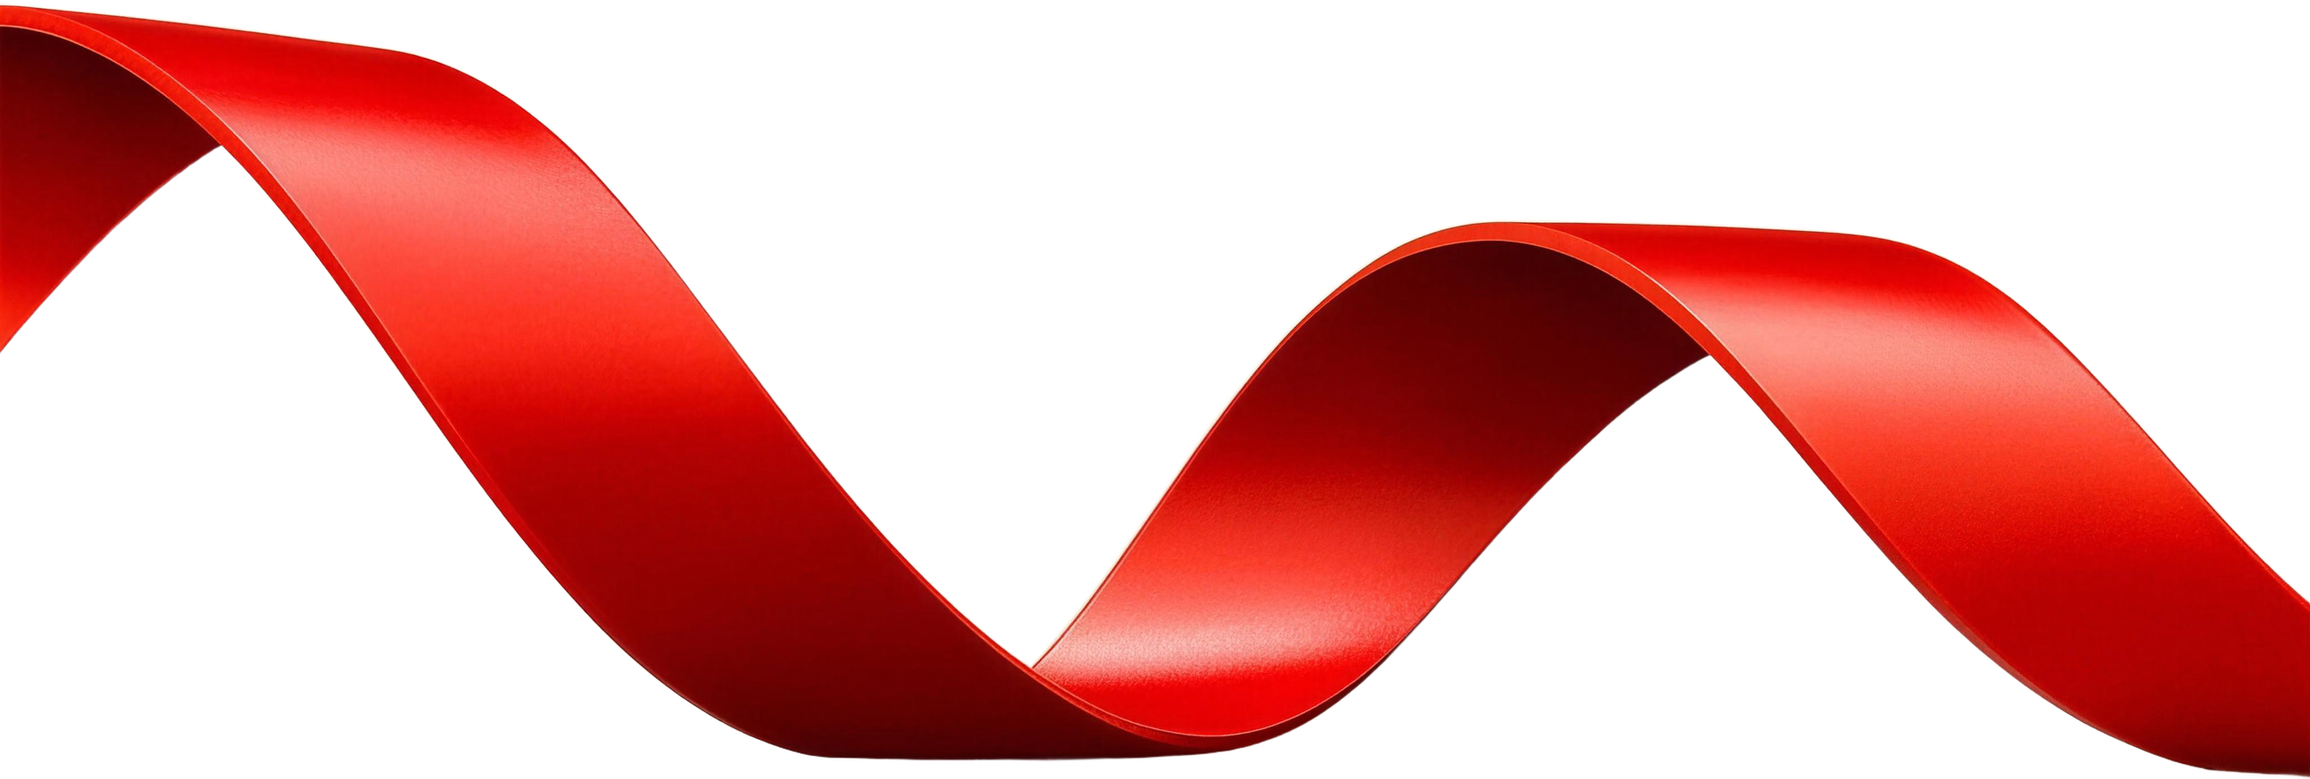
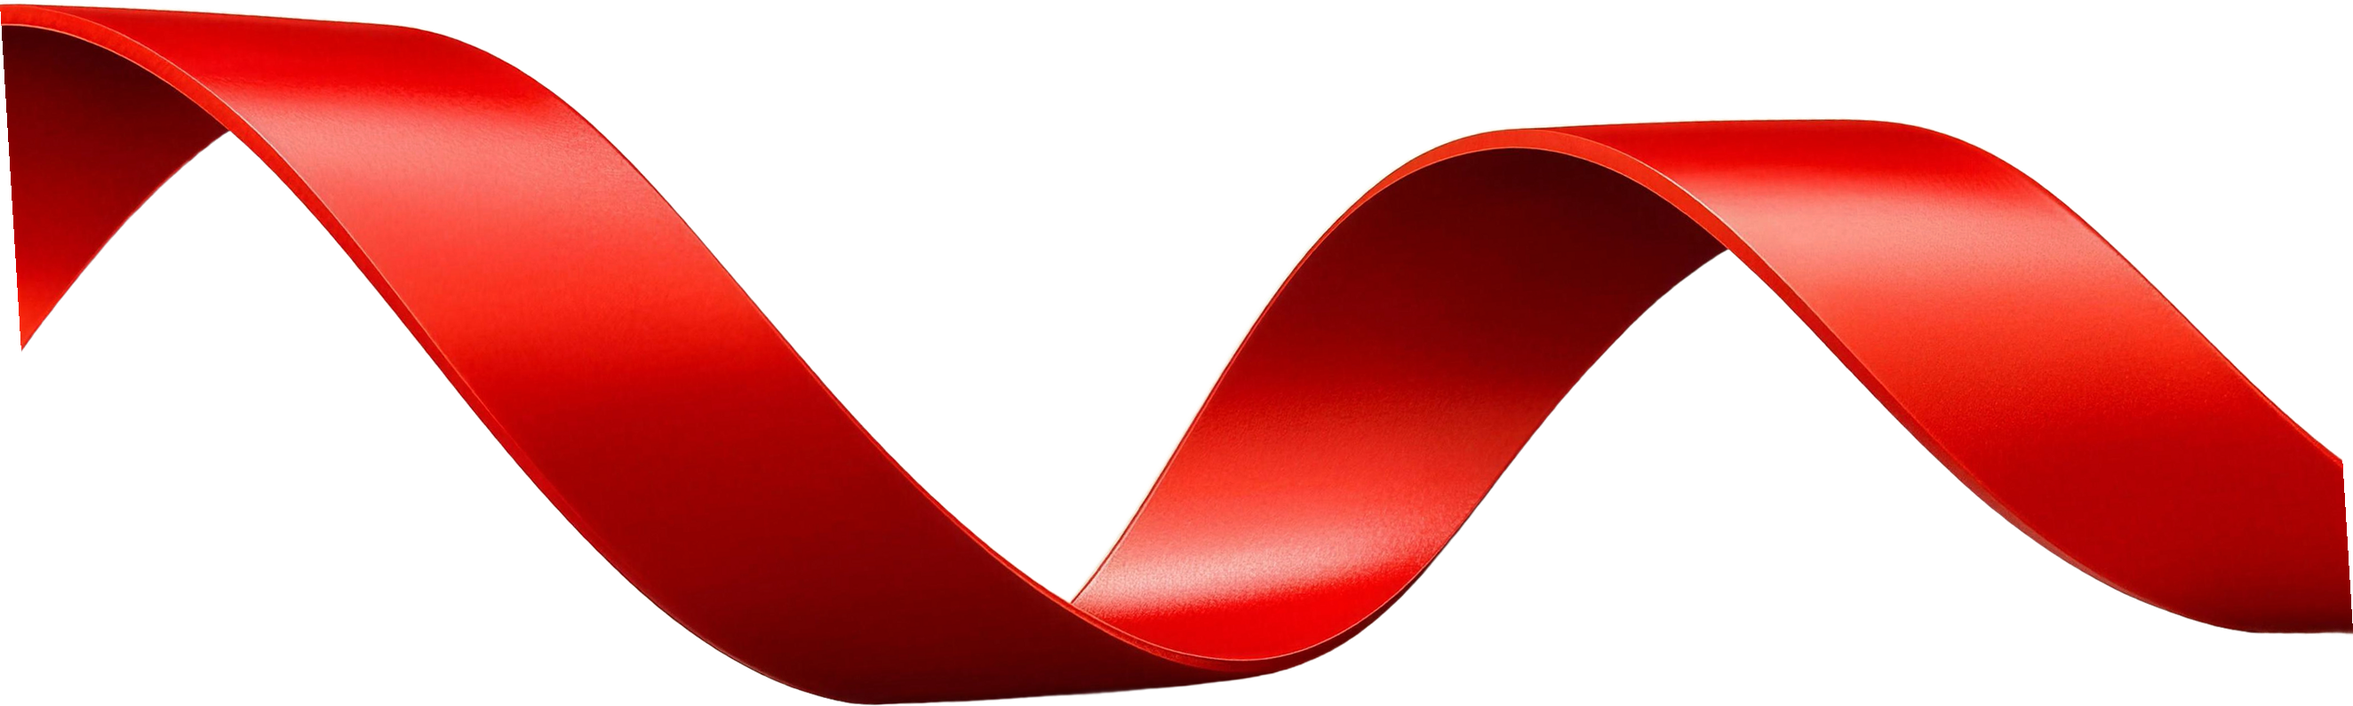
feat(customer-web): ribbon v10: sloped flow baked into the bands (enter high, exit low, never level), spatial rotation motion (perspective rotateX + roll while drifting), peeks relocated far from seams (Pricing + footer) and shrunk

diff --git a/apps/customer-web/components/landing/RibbonBand.tsx b/apps/customer-web/components/landing/RibbonBand.tsx
@@ -5,32 +5,32 @@ import { useRef } from 'react'
 import { useScrollLinked } from './scroll'
 
 /**
- * The section-seam ribbon, brand form v9 (owner 2026-07-08): purpose-rendered
- * high-resolution bands generated from the brand concept sheets
- * (docs/design/customer-web-prelaunch/brand-ribbon/) so they are crisp at
- * wide viewports: thick matte red voucher band, visible edge thickness, real
- * flowing waves, never a straight strip. The seam follows the band: its true
- * top and bottom edges were sampled from each PNG's alpha and baked in as
- * fill paths, so topColor meets bottomColor exactly along the ribbon.
+ * The section-seam ribbon, brand form v10 (owner 2026-07-08): hi-res bands
+ * rendered from the brand concept sheets, with the FLOW TILTED into the
+ * asset: the band enters one side high and leaves the other side low, never
+ * a level line. Motion is spatial, not a slide: the whole band turns gently
+ * in perspective (rotateX + a touch of roll) while drifting, so it reads as
+ * a ribbon rotating through the break. The seam still follows the band:
+ * its true edges are baked as fill paths sharing the band's transform.
  * Decorative only.
  */
 
 const VARIANTS = {
-  // Rhythmic corkscrew wave
+  // Rhythmic corkscrew wave, descending left to right
   a: {
     src: '/ribbon/flow-a.png',
-    w: 2600,
-    h: 495,
-    top: 'M -140 -140 L -140 324 L 0 324 L 16 303 L 33 281 L 49 260 L 65 239 L 82 218 L 98 198 L 114 178 L 131 158 L 147 140 L 163 122 L 180 105 L 196 90 L 212 77 L 229 63 L 245 52 L 262 42 L 278 33 L 294 26 L 311 21 L 327 17 L 343 16 L 360 15 L 376 15 L 392 15 L 409 15 L 425 15 L 441 15 L 458 14 L 474 14 L 490 14 L 507 13 L 523 13 L 539 13 L 556 13 L 572 13 L 588 13 L 605 14 L 621 17 L 637 22 L 654 29 L 670 37 L 687 48 L 703 60 L 719 74 L 736 90 L 752 108 L 768 126 L 785 147 L 801 167 L 817 188 L 834 211 L 850 233 L 866 255 L 883 278 L 899 299 L 915 320 L 932 341 L 948 361 L 964 379 L 981 396 L 997 411 L 1013 424 L 1030 436 L 1046 445 L 1062 435 L 1079 423 L 1095 409 L 1112 394 L 1128 378 L 1144 361 L 1161 341 L 1177 322 L 1193 302 L 1210 281 L 1226 260 L 1242 240 L 1259 218 L 1275 197 L 1291 176 L 1308 154 L 1324 135 L 1340 116 L 1357 97 L 1373 80 L 1389 65 L 1406 50 L 1422 39 L 1438 28 L 1455 20 L 1471 14 L 1487 11 L 1504 10 L 1520 10 L 1537 10 L 1553 10 L 1569 10 L 1586 10 L 1602 10 L 1618 9 L 1635 9 L 1651 9 L 1667 8 L 1684 8 L 1700 8 L 1716 7 L 1733 8 L 1749 12 L 1765 18 L 1782 28 L 1798 39 L 1814 53 L 1831 70 L 1847 90 L 1863 111 L 1880 134 L 1896 158 L 1912 182 L 1929 208 L 1945 232 L 1962 256 L 1978 278 L 1994 300 L 2011 321 L 2027 341 L 2043 359 L 2060 378 L 2076 393 L 2092 408 L 2109 421 L 2125 432 L 2141 441 L 2158 442 L 2174 432 L 2190 422 L 2207 409 L 2223 396 L 2239 382 L 2256 366 L 2272 350 L 2288 333 L 2305 314 L 2321 295 L 2337 275 L 2354 254 L 2370 234 L 2387 212 L 2403 191 L 2419 169 L 2436 148 L 2452 127 L 2468 108 L 2485 88 L 2501 70 L 2517 53 L 2534 38 L 2550 26 L 2566 17 L 2583 12 L 2599 9 L 2740 9 L 2740 -140 Z',
-    bottom: 'M -140 635 L -140 486 L 0 486 L 16 486 L 33 486 L 49 485 L 65 483 L 82 479 L 98 474 L 114 465 L 131 454 L 147 441 L 163 427 L 180 410 L 196 393 L 212 374 L 229 354 L 245 333 L 262 311 L 278 290 L 294 268 L 311 245 L 327 224 L 343 199 L 360 179 L 376 159 L 392 141 L 409 122 L 425 105 L 441 89 L 458 73 L 474 61 L 490 72 L 507 86 L 523 100 L 539 116 L 556 134 L 572 151 L 588 170 L 605 190 L 621 209 L 637 230 L 654 252 L 670 273 L 687 295 L 703 315 L 719 335 L 736 356 L 752 375 L 768 393 L 785 411 L 801 426 L 817 439 L 834 451 L 850 461 L 866 468 L 883 475 L 899 479 L 915 482 L 932 483 L 948 484 L 964 482 L 981 481 L 997 480 L 1013 479 L 1030 479 L 1046 478 L 1062 478 L 1079 478 L 1095 477 L 1112 477 L 1128 477 L 1144 477 L 1161 477 L 1177 476 L 1193 475 L 1210 473 L 1226 470 L 1242 464 L 1259 457 L 1275 449 L 1291 439 L 1308 428 L 1324 416 L 1340 402 L 1357 387 L 1373 371 L 1389 354 L 1406 335 L 1422 316 L 1438 297 L 1455 276 L 1471 255 L 1487 234 L 1504 211 L 1520 190 L 1537 167 L 1553 146 L 1569 125 L 1586 104 L 1602 86 L 1618 80 L 1635 100 L 1651 118 L 1667 139 L 1684 161 L 1700 183 L 1716 205 L 1733 228 L 1749 250 L 1765 272 L 1782 294 L 1798 315 L 1814 336 L 1831 357 L 1847 375 L 1863 392 L 1880 408 L 1896 422 L 1912 434 L 1929 445 L 1945 455 L 1962 463 L 1978 469 L 1994 474 L 2011 477 L 2027 479 L 2043 480 L 2060 481 L 2076 479 L 2092 479 L 2109 477 L 2125 477 L 2141 476 L 2158 476 L 2174 475 L 2190 475 L 2207 475 L 2223 474 L 2239 473 L 2256 473 L 2272 472 L 2288 472 L 2305 470 L 2321 468 L 2337 464 L 2354 458 L 2370 451 L 2387 443 L 2403 435 L 2419 425 L 2436 414 L 2452 402 L 2468 389 L 2485 374 L 2501 359 L 2517 342 L 2534 324 L 2550 305 L 2566 286 L 2583 265 L 2599 245 L 2740 245 L 2740 635 Z',
+    w: 2630,
+    h: 623,
+    top: 'M -140 -140 L -140 453 L 0 453 L 17 284 L 33 266 L 50 247 L 66 229 L 83 210 L 99 193 L 116 175 L 132 158 L 149 141 L 165 125 L 182 109 L 198 94 L 215 80 L 231 68 L 248 55 L 265 44 L 281 35 L 298 26 L 314 20 L 331 14 L 347 10 L 364 8 L 380 7 L 397 8 L 413 9 L 430 10 L 446 12 L 463 13 L 480 14 L 496 15 L 513 16 L 529 17 L 546 18 L 562 19 L 579 20 L 595 21 L 612 22 L 628 24 L 645 27 L 661 32 L 678 40 L 694 48 L 711 60 L 728 74 L 744 89 L 761 108 L 777 127 L 794 150 L 810 173 L 827 199 L 843 223 L 860 252 L 876 277 L 893 305 L 909 330 L 926 356 L 942 379 L 959 403 L 976 425 L 992 444 L 1009 461 L 1025 475 L 1042 488 L 1058 486 L 1075 475 L 1091 464 L 1108 451 L 1124 438 L 1141 423 L 1157 408 L 1174 391 L 1190 375 L 1207 357 L 1224 339 L 1240 321 L 1257 303 L 1273 285 L 1290 266 L 1306 249 L 1323 230 L 1339 213 L 1356 195 L 1372 179 L 1389 164 L 1405 149 L 1422 136 L 1439 124 L 1455 114 L 1472 105 L 1488 99 L 1505 94 L 1521 93 L 1538 93 L 1554 94 L 1571 95 L 1587 97 L 1604 98 L 1620 99 L 1637 100 L 1653 101 L 1670 102 L 1687 103 L 1703 104 L 1720 105 L 1736 106 L 1753 107 L 1769 110 L 1786 116 L 1802 125 L 1819 137 L 1835 151 L 1852 170 L 1868 192 L 1885 217 L 1901 243 L 1918 273 L 1935 304 L 1951 333 L 1968 363 L 1984 389 L 2001 417 L 2017 441 L 2034 465 L 2050 486 L 2067 508 L 2083 526 L 2100 543 L 2116 556 L 2133 569 L 2149 577 L 2166 569 L 2183 560 L 2199 551 L 2216 540 L 2232 528 L 2249 516 L 2265 502 L 2282 487 L 2298 472 L 2315 456 L 2331 440 L 2348 422 L 2364 405 L 2381 386 L 2398 367 L 2414 350 L 2431 331 L 2447 313 L 2464 294 L 2480 277 L 2497 260 L 2513 244 L 2530 228 L 2546 214 L 2563 201 L 2579 191 L 2596 183 L 2612 179 L 2629 178 L 2770 178 L 2770 -140 Z',
+    bottom: 'M -140 763 L -140 450 L 0 450 L 17 451 L 33 452 L 50 452 L 66 451 L 83 449 L 99 444 L 116 437 L 132 428 L 149 417 L 165 405 L 182 391 L 198 376 L 215 359 L 231 343 L 248 325 L 265 306 L 281 288 L 298 269 L 314 250 L 331 231 L 347 213 L 364 191 L 380 174 L 397 156 L 413 141 L 430 124 L 446 109 L 463 94 L 480 80 L 496 69 L 513 68 L 529 83 L 546 100 L 562 118 L 579 139 L 595 159 L 612 182 L 628 204 L 645 229 L 661 253 L 678 280 L 694 304 L 711 329 L 728 354 L 744 378 L 761 401 L 777 422 L 794 443 L 810 459 L 827 475 L 843 487 L 860 497 L 876 506 L 893 512 L 909 516 L 926 519 L 942 521 L 959 522 L 976 521 L 992 521 L 1009 522 L 1025 523 L 1042 524 L 1058 525 L 1075 526 L 1091 526 L 1108 527 L 1124 528 L 1141 530 L 1157 531 L 1174 532 L 1190 532 L 1207 531 L 1224 529 L 1240 525 L 1257 519 L 1273 513 L 1290 504 L 1306 495 L 1323 485 L 1339 473 L 1356 460 L 1372 447 L 1389 433 L 1405 417 L 1422 401 L 1439 383 L 1455 366 L 1472 348 L 1488 330 L 1505 311 L 1521 293 L 1538 274 L 1554 255 L 1571 236 L 1587 218 L 1604 200 L 1620 184 L 1637 168 L 1653 183 L 1670 206 L 1687 231 L 1703 256 L 1720 283 L 1736 309 L 1753 338 L 1769 363 L 1786 390 L 1802 415 L 1819 441 L 1835 464 L 1852 486 L 1868 505 L 1885 525 L 1901 540 L 1918 555 L 1935 567 L 1951 577 L 1968 585 L 1984 592 L 2001 597 L 2017 601 L 2034 604 L 2050 605 L 2067 606 L 2083 606 L 2100 606 L 2116 606 L 2133 607 L 2149 608 L 2166 609 L 2183 610 L 2199 611 L 2216 612 L 2232 612 L 2249 613 L 2265 614 L 2282 615 L 2298 615 L 2315 613 L 2331 610 L 2348 606 L 2364 601 L 2381 595 L 2398 587 L 2414 579 L 2431 570 L 2447 560 L 2464 549 L 2480 537 L 2497 524 L 2513 510 L 2530 494 L 2546 479 L 2563 462 L 2579 445 L 2596 427 L 2612 389 L 2629 173 L 2770 173 L 2770 763 Z',
   },
-  // Deep sweeping wave with folds
+  // Deep sweeping wave with folds, tilted (mounted flipped it descends too)
   b: {
     src: '/ribbon/flow-b.png',
-    w: 2600,
-    h: 877,
-    top: 'M -140 -140 L -140 10 L 0 10 L 16 11 L 33 13 L 49 14 L 65 16 L 82 18 L 98 19 L 114 21 L 131 23 L 147 24 L 163 26 L 180 28 L 196 29 L 212 31 L 229 33 L 245 35 L 262 37 L 278 40 L 294 42 L 311 43 L 327 46 L 343 48 L 360 50 L 376 52 L 392 54 L 409 57 L 425 59 L 441 61 L 458 64 L 474 69 L 490 74 L 507 80 L 523 88 L 539 96 L 556 105 L 572 115 L 588 127 L 605 140 L 621 153 L 637 168 L 654 184 L 670 201 L 687 220 L 703 238 L 719 258 L 736 279 L 752 300 L 768 321 L 785 343 L 801 364 L 817 386 L 834 408 L 850 429 L 866 450 L 883 473 L 899 494 L 915 514 L 932 535 L 948 555 L 964 573 L 981 593 L 997 611 L 1013 628 L 1030 646 L 1046 662 L 1062 677 L 1079 693 L 1095 707 L 1112 722 L 1128 734 L 1144 746 L 1161 755 L 1177 737 L 1193 718 L 1210 697 L 1226 677 L 1242 656 L 1259 631 L 1275 609 L 1291 586 L 1308 562 L 1324 539 L 1340 516 L 1357 492 L 1373 470 L 1389 449 L 1406 428 L 1422 409 L 1438 390 L 1455 372 L 1471 357 L 1487 342 L 1504 328 L 1520 315 L 1537 303 L 1553 293 L 1569 284 L 1586 276 L 1602 270 L 1618 264 L 1635 260 L 1651 257 L 1667 255 L 1684 254 L 1700 254 L 1716 254 L 1733 254 L 1749 254 L 1765 255 L 1782 255 L 1798 256 L 1814 256 L 1831 256 L 1847 256 L 1863 257 L 1880 257 L 1896 258 L 1912 258 L 1929 259 L 1945 260 L 1962 261 L 1978 261 L 1994 262 L 2011 263 L 2027 264 L 2043 265 L 2060 266 L 2076 268 L 2092 269 L 2109 272 L 2125 274 L 2141 279 L 2158 284 L 2174 290 L 2190 296 L 2207 305 L 2223 314 L 2239 324 L 2256 336 L 2272 348 L 2288 361 L 2305 377 L 2321 392 L 2337 408 L 2354 426 L 2370 443 L 2387 461 L 2403 479 L 2419 497 L 2436 516 L 2452 534 L 2468 552 L 2485 571 L 2501 589 L 2517 606 L 2534 623 L 2550 639 L 2566 654 L 2583 670 L 2599 684 L 2740 684 L 2740 -140 Z',
-    bottom: 'M -140 1017 L -140 389 L 0 389 L 16 370 L 33 350 L 49 332 L 65 315 L 82 296 L 98 280 L 114 263 L 131 247 L 147 233 L 163 218 L 180 204 L 196 192 L 212 180 L 229 168 L 245 159 L 262 170 L 278 187 L 294 205 L 311 226 L 327 245 L 343 265 L 360 288 L 376 310 L 392 332 L 409 356 L 425 378 L 441 401 L 458 425 L 474 448 L 490 471 L 507 494 L 523 516 L 539 538 L 556 561 L 572 582 L 588 602 L 605 622 L 621 641 L 637 659 L 654 678 L 670 695 L 687 712 L 703 727 L 719 741 L 736 755 L 752 768 L 768 779 L 785 790 L 801 800 L 817 809 L 834 817 L 850 824 L 866 830 L 883 836 L 899 841 L 915 844 L 932 846 L 948 846 L 964 846 L 981 847 L 997 847 L 1013 848 L 1030 848 L 1046 848 L 1062 848 L 1079 848 L 1095 848 L 1112 848 L 1128 848 L 1144 848 L 1161 848 L 1177 848 L 1193 848 L 1210 848 L 1226 847 L 1242 847 L 1259 847 L 1275 846 L 1291 846 L 1308 845 L 1324 844 L 1340 843 L 1357 842 L 1373 839 L 1389 837 L 1406 833 L 1422 828 L 1438 822 L 1455 814 L 1471 806 L 1487 796 L 1504 784 L 1520 772 L 1537 757 L 1553 742 L 1569 725 L 1586 707 L 1602 690 L 1618 672 L 1635 653 L 1651 634 L 1667 616 L 1684 597 L 1700 579 L 1716 562 L 1733 544 L 1749 528 L 1765 513 L 1782 496 L 1798 482 L 1814 467 L 1831 453 L 1847 441 L 1863 429 L 1880 418 L 1896 408 L 1912 399 L 1929 398 L 1945 415 L 1962 433 L 1978 450 L 1994 469 L 2011 489 L 2027 509 L 2043 528 L 2060 548 L 2076 567 L 2092 585 L 2109 605 L 2125 623 L 2141 640 L 2158 658 L 2174 675 L 2190 691 L 2207 707 L 2223 721 L 2239 734 L 2256 748 L 2272 760 L 2288 772 L 2305 783 L 2321 793 L 2337 803 L 2354 812 L 2370 820 L 2387 827 L 2403 834 L 2419 841 L 2436 847 L 2452 852 L 2468 856 L 2485 860 L 2501 861 L 2517 862 L 2534 863 L 2550 864 L 2566 865 L 2583 866 L 2599 868 L 2740 868 L 2740 1017 Z',
+    w: 2648,
+    h: 795,
+    top: 'M -140 -140 L -140 9 L 0 9 L 17 10 L 33 10 L 50 10 L 67 11 L 83 12 L 100 12 L 117 13 L 133 14 L 150 14 L 166 15 L 183 16 L 200 17 L 216 18 L 233 18 L 250 19 L 266 21 L 283 22 L 300 23 L 316 24 L 333 25 L 350 27 L 366 27 L 383 29 L 400 30 L 416 31 L 433 32 L 449 34 L 466 36 L 483 40 L 499 45 L 516 50 L 533 57 L 549 64 L 566 73 L 583 83 L 599 93 L 616 105 L 633 118 L 649 131 L 666 146 L 683 162 L 699 178 L 716 195 L 733 213 L 749 231 L 766 250 L 782 268 L 799 288 L 816 308 L 832 327 L 849 347 L 866 367 L 882 385 L 899 405 L 916 425 L 932 443 L 949 462 L 966 480 L 982 498 L 999 515 L 1016 533 L 1032 548 L 1049 565 L 1065 579 L 1082 594 L 1099 609 L 1115 622 L 1132 635 L 1149 648 L 1165 660 L 1182 672 L 1199 681 L 1215 668 L 1232 646 L 1249 622 L 1265 599 L 1282 572 L 1299 545 L 1315 519 L 1332 492 L 1348 466 L 1365 438 L 1382 410 L 1398 385 L 1415 360 L 1432 336 L 1448 315 L 1465 293 L 1482 274 L 1498 257 L 1515 240 L 1532 224 L 1548 211 L 1565 199 L 1582 187 L 1598 178 L 1615 170 L 1631 164 L 1648 159 L 1665 154 L 1681 152 L 1698 150 L 1715 149 L 1731 148 L 1748 147 L 1765 146 L 1781 146 L 1798 145 L 1815 144 L 1831 143 L 1848 143 L 1865 142 L 1881 142 L 1898 141 L 1914 141 L 1931 140 L 1948 140 L 1964 140 L 1981 139 L 1998 139 L 2014 139 L 2031 139 L 2048 139 L 2064 139 L 2081 139 L 2098 140 L 2114 141 L 2131 143 L 2148 145 L 2164 149 L 2181 154 L 2198 159 L 2214 166 L 2231 173 L 2247 182 L 2264 192 L 2281 203 L 2297 214 L 2314 227 L 2331 241 L 2347 255 L 2364 270 L 2381 286 L 2397 301 L 2414 318 L 2431 334 L 2447 350 L 2464 367 L 2481 384 L 2497 400 L 2514 417 L 2530 432 L 2547 449 L 2564 464 L 2580 478 L 2597 493 L 2614 507 L 2630 519 L 2647 708 L 2788 708 L 2788 -140 Z',
+    bottom: 'M -140 935 L -140 6 L 0 6 L 17 284 L 33 375 L 50 352 L 67 330 L 83 311 L 100 290 L 117 270 L 133 252 L 150 233 L 166 217 L 183 201 L 200 185 L 216 172 L 233 158 L 250 145 L 266 147 L 283 163 L 300 180 L 316 197 L 333 215 L 350 234 L 366 252 L 383 272 L 400 293 L 416 312 L 433 333 L 449 353 L 466 374 L 483 395 L 499 415 L 516 437 L 533 458 L 549 477 L 566 498 L 583 518 L 599 536 L 616 555 L 633 574 L 649 591 L 666 608 L 683 625 L 699 641 L 716 656 L 733 671 L 749 684 L 766 697 L 782 709 L 799 720 L 816 731 L 832 740 L 849 749 L 866 757 L 882 764 L 899 770 L 916 775 L 932 780 L 949 783 L 966 786 L 982 787 L 999 786 L 1016 785 L 1032 785 L 1049 784 L 1065 783 L 1082 783 L 1099 782 L 1115 781 L 1132 780 L 1149 779 L 1165 778 L 1182 776 L 1199 776 L 1215 775 L 1232 774 L 1249 772 L 1265 771 L 1282 770 L 1299 768 L 1315 767 L 1332 766 L 1348 764 L 1365 761 L 1382 760 L 1398 757 L 1415 755 L 1432 751 L 1448 747 L 1465 741 L 1482 733 L 1498 726 L 1515 716 L 1532 704 L 1548 691 L 1565 676 L 1582 659 L 1598 642 L 1615 622 L 1631 602 L 1648 581 L 1665 560 L 1681 539 L 1698 517 L 1715 495 L 1731 475 L 1748 454 L 1765 434 L 1781 416 L 1798 398 L 1815 380 L 1831 363 L 1848 347 L 1865 331 L 1881 318 L 1898 305 L 1914 293 L 1931 281 L 1948 277 L 1964 292 L 1981 308 L 1998 324 L 2014 341 L 2031 358 L 2048 376 L 2064 393 L 2081 411 L 2098 429 L 2114 445 L 2131 463 L 2148 480 L 2164 496 L 2181 512 L 2198 528 L 2214 543 L 2231 557 L 2247 570 L 2264 584 L 2281 596 L 2297 608 L 2314 619 L 2331 630 L 2347 639 L 2364 649 L 2381 657 L 2397 665 L 2414 672 L 2431 678 L 2447 684 L 2464 690 L 2481 695 L 2497 699 L 2514 702 L 2530 705 L 2547 706 L 2564 706 L 2580 706 L 2597 706 L 2614 705 L 2630 705 L 2647 706 L 2788 706 L 2788 935 Z',
   },
 } as const
 
@@ -50,21 +50,29 @@ export function RibbonBand({
   const v = VARIANTS[variant]
   const { scrollYProgress } = useScroll({ target: ref, offset: ['start end', 'end start'] })
 
-  // The band drifts sideways with scroll and breathes vertically: a floating
-  // object, not a printed stripe
-  const x = useScrollLinked(useTransform(scrollYProgress, [0, 1], [-34, 34]))
-  const y = useScrollLinked(useTransform(scrollYProgress, [0, 1], [8, -8]))
+  // Drift sideways while the whole plane turns: rotateX tips the band toward
+  // and away from the viewer, the small roll keeps the turn organic. The
+  // block bleeds past the container so the turn never exposes an edge.
+  const x = useScrollLinked(useTransform(scrollYProgress, [0, 1], [-26, 26]))
+  const rotX = useScrollLinked(useTransform(scrollYProgress, [0, 1], [9, -9]))
+  const roll = useScrollLinked(useTransform(scrollYProgress, [0, 1], [1.6, -1.6]))
 
   return (
     <div
       ref={ref}
       aria-hidden="true"
-      className="relative pointer-events-none select-none h-[160px] md:h-[320px] overflow-hidden"
-      style={{ background: topColor }}
+      className="relative pointer-events-none select-none h-[170px] md:h-[330px] overflow-hidden"
+      style={{ background: topColor, perspective: 1100 }}
     >
       <motion.div
-        className="absolute -inset-x-[3%] inset-y-0"
-        style={{ x: reduceMotion ? 0 : x, y: reduceMotion ? 0 : y, scaleX: flip ? -1 : 1 }}
+        className="absolute -inset-x-[3%] -inset-y-[9%]"
+        style={{
+          x: reduceMotion ? 0 : x,
+          rotateX: reduceMotion ? 0 : rotX,
+          rotateZ: reduceMotion ? 0 : roll,
+          scaleX: flip ? -1 : 1,
+          transformStyle: 'preserve-3d',
+        }}
       >
         {/* The seam follows the ribbon: fills trace the band's real edges */}
         <svg viewBox={`0 0 ${v.w} ${v.h}`} preserveAspectRatio="none" className="absolute inset-0 h-full w-full">
@@ -72,7 +80,7 @@ export function RibbonBand({
           <path d={v.bottom} fill={bottomColor} />
         </svg>
 
-        {/* The brand ribbon itself: matte, thick-edged, flowing */}
+        {/* The brand ribbon itself: matte, thick-edged, flowing on a slope */}
         <img src={v.src} alt="" className="absolute inset-0 h-full w-full" style={{ objectFit: 'fill' }} />
       </motion.div>
     </div>

diff --git a/apps/customer-web/components/landing/AppCtaFooterSection.tsx b/apps/customer-web/components/landing/AppCtaFooterSection.tsx
@@ -4,6 +4,7 @@ import Link from 'next/link'
 import { motion } from 'framer-motion'
 import { AppStoreBadge, GooglePlayBadge } from './HeroSection'
 import { isMarketplaceLive } from '@/lib/prelaunch'
+import { RibbonPeek } from './RibbonPeek'
 
 const ease = [0.22, 1, 0.36, 1] as [number, number, number, number]
 
@@ -15,6 +16,8 @@ export function AppCtaFooterSection() {
       className="relative overflow-hidden py-20 md:py-28 px-6 text-center"
       style={{ background: '#010C35' }}
     >
+      {/* The ribbon's last visit before the footer: far from both seams */}
+      <RibbonPeek side="right" top="10%" width={220} />
       {/* Rose-red glow: bottom-left anchor + upper-right warmth */}
       <div
         aria-hidden="true"

diff --git a/apps/customer-web/components/landing/PricingSection.tsx b/apps/customer-web/components/landing/PricingSection.tsx
@@ -3,6 +3,7 @@
 import Link from 'next/link'
 import { motion } from 'framer-motion'
 import { isMarketplaceLive } from '@/lib/prelaunch'
+import { RibbonPeek } from './RibbonPeek'
 
 type Plan = {
   name: string
@@ -162,7 +163,10 @@ export function PricingSection() {
   const plans = getPlans(marketplaceLive)
 
   return (
-    <section className="bg-white py-20 md:py-24 px-6">
+    <section className="relative overflow-hidden bg-white py-20 md:py-24 px-6">
+      {/* The brand ribbon visits: mid-way between the seam bands, small and
+          beside the centred headline so it never crowds content */}
+      <RibbonPeek side="left" top="3%" width={200} />
       <div className="max-w-7xl mx-auto">
 
         <motion.div

diff --git a/apps/customer-web/components/landing/WhatIsRedeemoSection.tsx b/apps/customer-web/components/landing/WhatIsRedeemoSection.tsx
@@ -2,7 +2,6 @@
 
 import Link from 'next/link'
 import { motion } from 'framer-motion'
-import { RibbonPeek } from './RibbonPeek'
 
 /**
  * The definition section (owner direction 2026-07-08): a cold visitor has no
@@ -49,9 +48,6 @@ const rise = {
 export function WhatIsRedeemoSection() {
   return (
     <section className="relative overflow-hidden bg-white py-24 md:py-32 px-6" aria-label="What is Redeemo">
-      {/* The brand ribbon visits: a loop peeking in from the right, easing
-          in and out with scroll */}
-      <RibbonPeek side="right" top="4%" width={320} />
       <div className="relative max-w-7xl mx-auto grid lg:grid-cols-[1.05fr_0.95fr] gap-14 lg:gap-24 items-start">
 
         {/* The definition */}

diff --git a/apps/customer-web/components/landing/HowItWorksSection.tsx b/apps/customer-web/components/landing/HowItWorksSection.tsx
@@ -4,7 +4,6 @@ import Link from 'next/link'
 import { motion } from 'framer-motion'
 import { AppStoreBadge, GooglePlayBadge } from './HeroSection'
 import { isMarketplaceLive } from '@/lib/prelaunch'
-import { RibbonPeek } from './RibbonPeek'
 
 const EASE = [0.22, 1, 0.36, 1] as [number, number, number, number]
 
@@ -61,8 +60,6 @@ export function HowItWorksSection() {
 
   return (
     <section style={{ background: '#FAFAF8' }} className="relative overflow-hidden py-20 md:py-24 px-6">
-      {/* The brand ribbon visits from the left on its way to the seam below */}
-      <RibbonPeek side="left" top="18%" width={280} />
       <div className="max-w-7xl mx-auto">
 
         <motion.div

diff --git a/apps/customer-web/components/landing/RibbonPeek.tsx b/apps/customer-web/components/landing/RibbonPeek.tsx
@@ -29,6 +29,7 @@ export function RibbonPeek({
 }: {
   side: 'left' | 'right'
   top: string
+  /** Keep small: the ribbon visits, it never competes with content */
   width?: number
   className?: string
 }) {
@@ -49,7 +50,7 @@ export function RibbonPeek({
     <div
       ref={ref}
       aria-hidden="true"
-      className={`hidden lg:block absolute pointer-events-none select-none ${side === 'right' ? 'right-0' : 'left-0'} ${className}`}
+      className={`hidden xl:block absolute pointer-events-none select-none ${side === 'right' ? 'right-0' : 'left-0'} ${className}`}
       style={{ top, width, height: Math.round((width * a.h) / a.w) }}
     >
       <motion.img

diff --git a/docs/design/customer-web-prelaunch/execution-log.md b/docs/design/customer-web-prelaunch/execution-log.md
@@ -575,3 +575,18 @@ edited by this workstream.
   app's voucher-type tokens, owner-approved on the shelf); ScrollStory/
   HowItWorks repetition trim + social-proof element + hero artwork's
   "Manchester" label queued as owner decisions.
+- Ribbon v10 SLOPED FLOW + SPATIAL MOTION (owner 2026-07-08: the corkscrew
+  band still read as a straight line: it must enter one side higher and
+  leave the other lower; motion should read as the ribbon ROTATING, not
+  sliding left-right; side peeks too close to the seam bands, space them
+  out and make them smaller): tilt baked into the assets (flow-a -4.5deg so
+  it descends left to right; flow-b +3.5deg, descending the other way once
+  flipped), seam fills re-baked from the rotated alphas with carried-edge
+  handling for the corner columns. Motion is now spatial: the whole band
+  block (fills + image together, so the seam stays glued to the fabric)
+  turns in perspective: scroll-linked rotateX 9deg to -9deg plus a 1.6deg
+  roll, with reduced x drift; the block bleeds -9% vertically so the turn
+  never exposes a container edge. Peeks: removed from WhatIsRedeemo and
+  HowItWorks (both hugged a seam), remounted small and far from the bands:
+  Pricing top-left (200px) and AppCtaFooter top-right (220px), xl-gated,
+  beside centred content so they never crowd copy.
